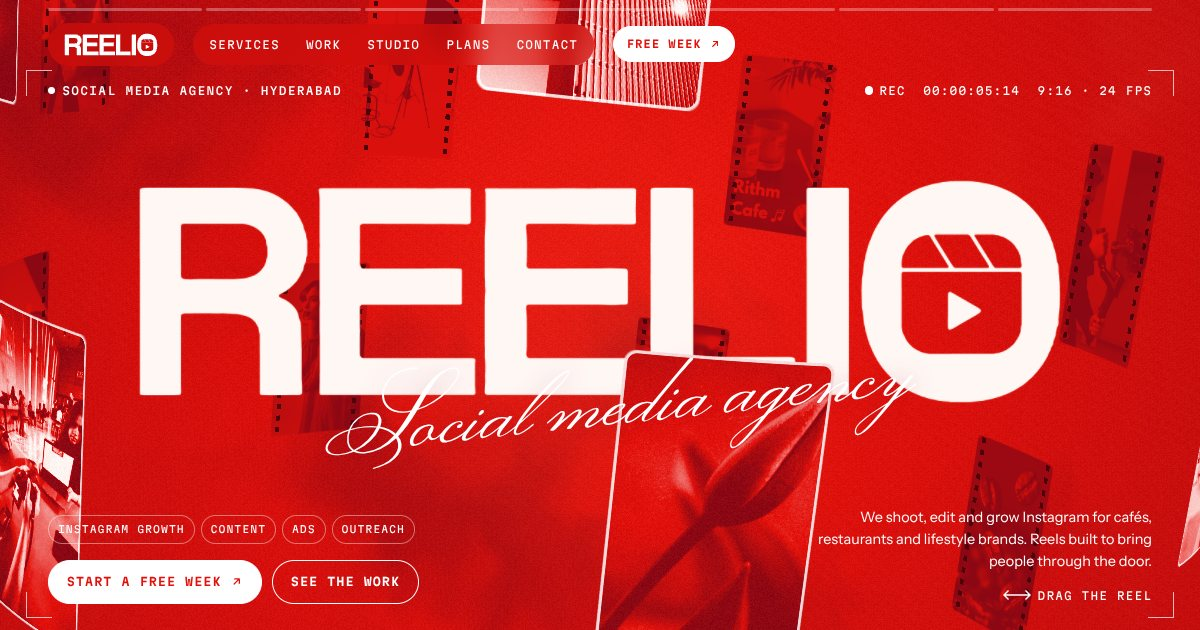
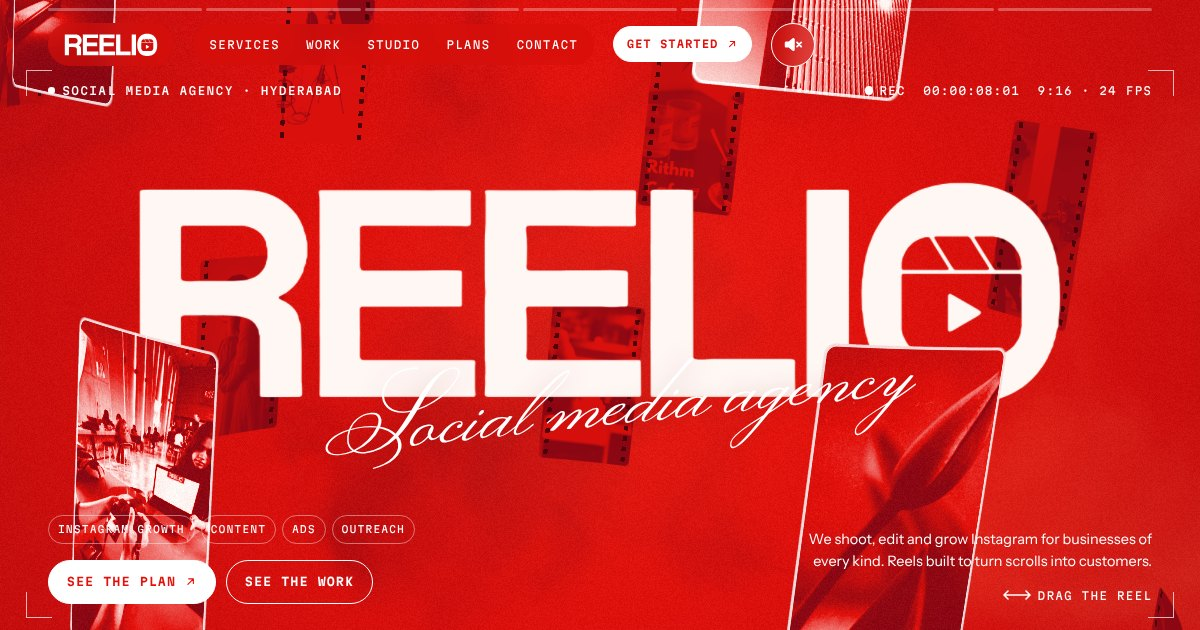
Position REELIO for every niche; show the five services
- Marquee and services list now show exactly: Content Creation, Video Editing &
  Graphic Design, Photography & Videography, Meta Ads & Paid Marketing,
  Outreach & Brand Growth (Models removed)
- Hero line, About statement and meta descriptions no longer name cafés,
  restaurants or lifestyle brands
- Niches section relabelled by content type (What we shoot)
- Contact form asks what the business does instead of niche chips
- Regenerated og.jpg link preview from the current hero

Claude-Session: https://claude.ai/code/session_01HG97bxukWMWAH2d1mGRTMN

diff --git a/index.html b/index.html
@@ -10,7 +10,7 @@
 <meta property="og:type" content="website">
 <meta property="og:site_name" content="REELIO">
 <meta property="og:title" content="REELIO | Cinematic social media agency">
-<meta property="og:description" content="REELIO is a creative and growth social media agency from Hyderabad. Cinematic reels, branding, Meta ads and outreach for cafés, restaurants and lifestyle brands.">
+<meta property="og:description" content="REELIO is a creative and growth social media agency from Hyderabad. Cinematic reels, branding, Meta ads and outreach for businesses of every kind.">
 <meta property="og:url" content="https://www.reelio.social/">
 <meta property="og:image" content="https://www.reelio.social/og.jpg">
 <meta property="og:image:width" content="1200">
@@ -18,7 +18,7 @@
 <meta name="twitter:card" content="summary_large_image">
 <style>:root{padding-top:env(safe-area-inset-top,0px);padding-bottom:env(safe-area-inset-bottom,0px)}</style>
 <meta name="claude:viewport-fit-sides" content="cover">
-<meta name="description" content="REELIO is a creative and growth social media agency from Hyderabad. Cinematic reels, branding, Meta ads and outreach for cafés, restaurants and lifestyle brands.">
+<meta name="description" content="REELIO is a creative and growth social media agency from Hyderabad. Cinematic reels, branding, Meta ads and outreach for businesses of every kind.">
 <meta name="theme-color" content="#E3110C">
 <link rel="preconnect" href="https://fonts.googleapis.com">
 <link rel="preconnect" href="https://fonts.gstatic.com" crossorigin>
@@ -706,7 +706,7 @@ fieldset.field{border:0;margin:0;padding:0;grid-column:1/-1}
   <nav class="wrap" aria-label="Menu">
     <ul>
       <li><a href="#services">Services</a></li>
-      <li><a href="#niches">Niches</a></li>
+      <li><a href="#niches">Reels</a></li>
       <li><a href="#work">Work</a></li>
       <li><a href="#kit">Studio</a></li>
       <li><a href="#plans">Plans</a></li>
@@ -761,7 +761,7 @@ fieldset.field{border:0;margin:0;padding:0;grid-column:1/-1}
           </div>
         </div>
         <div class="hero-side">
-          <p>We shoot, edit and grow Instagram for cafés, restaurants and lifestyle brands. Reels built to bring people through the door.</p>
+          <p>We shoot, edit and grow Instagram for businesses of every kind. Reels built to turn scrolls into customers.</p>
           <span class="mono drag-hint" aria-hidden="true"><svg><use href="#i-drag"/></svg> Drag the reel</span>
         </div>
       </div>
@@ -770,15 +770,15 @@ fieldset.field{border:0;margin:0;padding:0;grid-column:1/-1}
 
   <div class="marquee" aria-hidden="true" data-surface="paper">
     <div class="marquee-track">
-      <div class="marquee-group"><span>Cafés</span><svg class="burst"><use href="#burst"/></svg><span class="o">Restaurants</span><svg class="burst"><use href="#burst"/></svg><span>Fashion</span><svg class="burst"><use href="#burst"/></svg><span class="o">Startups</span><svg class="burst"><use href="#burst"/></svg></div>
-      <div class="marquee-group"><span>Cafés</span><svg class="burst"><use href="#burst"/></svg><span class="o">Restaurants</span><svg class="burst"><use href="#burst"/></svg><span>Fashion</span><svg class="burst"><use href="#burst"/></svg><span class="o">Startups</span><svg class="burst"><use href="#burst"/></svg></div>
+      <div class="marquee-group"><span>Content Creation</span><svg class="burst"><use href="#burst"/></svg><span class="o">Video Editing &amp; Graphic Design</span><svg class="burst"><use href="#burst"/></svg><span>Photography &amp; Videography</span><svg class="burst"><use href="#burst"/></svg><span class="o">Meta Ads &amp; Paid Marketing</span><svg class="burst"><use href="#burst"/></svg><span>Outreach &amp; Brand Growth</span><svg class="burst"><use href="#burst"/></svg></div>
+      <div class="marquee-group"><span>Content Creation</span><svg class="burst"><use href="#burst"/></svg><span class="o">Video Editing &amp; Graphic Design</span><svg class="burst"><use href="#burst"/></svg><span>Photography &amp; Videography</span><svg class="burst"><use href="#burst"/></svg><span class="o">Meta Ads &amp; Paid Marketing</span><svg class="burst"><use href="#burst"/></svg><span>Outreach &amp; Brand Growth</span><svg class="burst"><use href="#burst"/></svg></div>
     </div>
   </div>
 
   <section class="about s-paper" id="about" data-surface="paper">
     <div class="wrap grid12">
       <p class="label">About REELIO</p>
-      <h2 class="statement" id="statement">REELIO is an all-in-one creative &amp; growth agency helping <span class="hl">cafés, restaurants</span> and <span class="hl">lifestyle brands</span> grow on <span class="hl">Instagram.</span></h2>
+      <h2 class="statement" id="statement">REELIO is an all-in-one creative &amp; growth agency helping <span class="hl">businesses</span> in <span class="hl">every niche</span> grow on <span class="hl">Instagram.</span></h2>
       <div class="about-media logo-card">
         <img class="parallax" src="logo-card.jpg" alt="The REELIO logo in white on red" loading="lazy" width="960" height="1200">
         <span class="tag tl">9:16</span><span class="tag br">Take 01</span>
@@ -800,58 +800,54 @@ fieldset.field{border:0;margin:0;padding:0;grid-column:1/-1}
       <div class="sec-head">
         <p class="label">Services</p>
         <h2 class="display h1 reveal">Everything your Instagram needs</h2>
-        <p class="lede">Six services from one team. Pick the one you need, or hand us the whole account.</p>
+        <p class="lede">Five services from one team. Pick the one you need, or hand us the whole account.</p>
       </div>
       <ul class="svc-list">
         <li class="svc" data-img="0">
           <span class="svc-thumb" aria-hidden="true"><img src="r13.jpg" alt="" loading="lazy" width="576" height="1024"></span>
-          <h3>Content creation</h3>
+          <h3>Content Creation</h3>
           <p>Engaging, high-quality Instagram posts, reels and campaign content made to lift engagement, visibility and brand impact.</p>
           <ul class="tags"><li>Reels</li><li>Posts</li><li>Campaigns</li></ul>
         </li>
         <li class="svc" data-img="1">
           <span class="svc-thumb" aria-hidden="true"><img src="edit-desk.jpg" alt="" loading="lazy" width="576" height="1024"></span>
-          <h3>Video editing &amp; graphic design</h3>
+          <h3>Video Editing &amp; Graphic Design</h3>
           <p>Retention-first editing for short-form, trend-driven dynamic captions, carousels that convert and custom templates that suit your brand.</p>
           <ul class="tags"><li>Editing</li><li>Captions</li><li>Carousels</li><li>Templates</li></ul>
         </li>
         <li class="svc" data-img="2">
           <span class="svc-thumb" aria-hidden="true"><img src="r12.jpg" alt="" loading="lazy" width="576" height="1024"></span>
-          <h3>Photography &amp; videography</h3>
-          <p>Professional brand and product shoots, café and restaurant ambience, lifestyle photography and cinematic video production.</p>
+          <h3>Photography &amp; Videography</h3>
+          <p>Professional brand and product shoots, location and ambience shoots, lifestyle photography and cinematic video production.</p>
           <ul class="tags"><li>Brand shoots</li><li>Ambience</li><li>Cinematic</li></ul>
         </li>
         <li class="svc" data-img="3">
           <span class="svc-thumb" aria-hidden="true"><img src="r04.jpg" alt="" loading="lazy" width="576" height="1024"></span>
-          <h3>Digital marketing</h3>
+          <h3>Meta Ads &amp; Paid Marketing</h3>
           <p>Ad boosts and full Meta ads setup, with audience targeting, scaling, tracking and weekly optimization to grow your brand.</p>
           <ul class="tags"><li>Meta ads</li><li>Targeting</li><li>Tracking</li></ul>
         </li>
         <li class="svc" data-img="4">
           <span class="svc-thumb" aria-hidden="true"><img src="r09.jpg" alt="" loading="lazy" width="576" height="1024"></span>
-          <h3>Outreach &amp; growth</h3>
+          <h3>Outreach &amp; Brand Growth</h3>
           <p>Lead generation campaigns, influencer outreach, strategic brand collaborations and long-term community building.</p>
           <ul class="tags"><li>Leads</li><li>Influencers</li><li>Community</li></ul>
         </li>
-        <li class="svc" data-img="5">
-          <span class="svc-thumb" aria-hidden="true"><img src="r05.jpg" alt="" loading="lazy" width="576" height="1024"></span>
-          <h3>Models</h3>
-          <p>Access to professional models and content creators for shoots, campaigns and promotional content.</p>
-          <ul class="tags"><li>Models</li><li>Creators</li><li>Campaigns</li></ul>
+li>Creators</li><li>Campaigns</li></ul>
         </li>
       </ul>
     </div>
     <div class="svc-float" aria-hidden="true">
-      <img src="r13.jpg" alt=""><img src="edit-desk.jpg" alt=""><img src="r12.jpg" alt=""><img src="r04.jpg" alt=""><img src="r09.jpg" alt=""><img src="r05.jpg" alt="">
+      <img src="r13.jpg" alt=""><img src="edit-desk.jpg" alt=""><img src="r12.jpg" alt=""><img src="r04.jpg" alt=""><img src="r09.jpg" alt="">
     </div>
   </section>
 
   <section class="sec s-paper" id="niches" data-surface="paper">
     <div class="wrap">
       <div class="sec-head">
-        <p class="label">Niches we serve</p>
+        <p class="label">What we shoot</p>
         <h2 class="display h1 reveal">Made for the feed</h2>
-        <p class="lede">Every shoot is planned vertical-first, for the way people actually scroll.</p>
+        <p class="lede">Whatever your business is, every shoot is planned vertical-first, for the way people actually scroll.</p>
       </div>
       <div class="reels">
         <article class="reel">
@@ -862,9 +858,9 @@ fieldset.field{border:0;margin:0;padding:0;grid-column:1/-1}
               <div class="reel-top"><span>Reels</span><svg aria-hidden="true"><use href="#i-cam"/></svg></div>
               <div class="reel-rail" aria-hidden="true"><span><svg><use href="#i-heart"/></svg></span><span><svg><use href="#i-comment"/></svg></span><span><svg><use href="#i-send"/></svg></span></div>
               <div class="reel-meta">
-                <h3 class="reel-title">Cafés</h3>
+                <h3 class="reel-title">Product reels</h3>
                 <p class="reel-handle"><svg aria-hidden="true" viewBox="1008 0 299 330"><use href="#lp-o"/></svg>reelio.agency</p>
-                <p class="reel-cap">Latte art, slow pours, cozy corners.</p>
+                <p class="reel-cap">Slow motion and close-ups that make products irresistible.</p>
                 <p class="reel-audio"><svg aria-hidden="true"><use href="#i-note"/></svg>Original audio</p>
               </div>
             </div>
@@ -878,9 +874,9 @@ fieldset.field{border:0;margin:0;padding:0;grid-column:1/-1}
               <div class="reel-top"><span>Reels</span><svg aria-hidden="true"><use href="#i-cam"/></svg></div>
               <div class="reel-rail" aria-hidden="true"><span><svg><use href="#i-heart"/></svg></span><span><svg><use href="#i-comment"/></svg></span><span><svg><use href="#i-send"/></svg></span></div>
               <div class="reel-meta">
-                <h3 class="reel-title">Restaurants</h3>
+                <h3 class="reel-title">Behind the scenes</h3>
                 <p class="reel-handle"><svg aria-hidden="true" viewBox="1008 0 299 330"><use href="#lp-o"/></svg>reelio.agency</p>
-                <p class="reel-cap">Plating, service and the room at its best.</p>
+                <p class="reel-cap">The people, the craft and the space at their best.</p>
                 <p class="reel-audio"><svg aria-hidden="true"><use href="#i-note"/></svg>Original audio</p>
               </div>
             </div>
@@ -894,9 +890,9 @@ fieldset.field{border:0;margin:0;padding:0;grid-column:1/-1}
               <div class="reel-top"><span>Reels</span><svg aria-hidden="true"><use href="#i-cam"/></svg></div>
               <div class="reel-rail" aria-hidden="true"><span><svg><use href="#i-heart"/></svg></span><span><svg><use href="#i-comment"/></svg></span><span><svg><use href="#i-send"/></svg></span></div>
               <div class="reel-meta">
-                <h3 class="reel-title">Fashion</h3>
+                <h3 class="reel-title">Brand shoots</h3>
                 <p class="reel-handle"><svg aria-hidden="true" viewBox="1008 0 299 330"><use href="#lp-o"/></svg>reelio.agency</p>
-                <p class="reel-cap">Lookbooks, drops and models on set.</p>
+                <p class="reel-cap">Models, styling and looks on set.</p>
                 <p class="reel-audio"><svg aria-hidden="true"><use href="#i-note"/></svg>Original audio</p>
               </div>
             </div>
@@ -910,7 +906,7 @@ fieldset.field{border:0;margin:0;padding:0;grid-column:1/-1}
               <div class="reel-top"><span>Reels</span><svg aria-hidden="true"><use href="#i-cam"/></svg></div>
               <div class="reel-rail" aria-hidden="true"><span><svg><use href="#i-heart"/></svg></span><span><svg><use href="#i-comment"/></svg></span><span><svg><use href="#i-send"/></svg></span></div>
               <div class="reel-meta">
-                <h3 class="reel-title">Startups</h3>
+                <h3 class="reel-title">Founder stories</h3>
                 <p class="reel-handle"><svg aria-hidden="true" viewBox="1008 0 299 330"><use href="#lp-o"/></svg>reelio.agency</p>
                 <p class="reel-cap">Launches, founders and the story behind them.</p>
                 <p class="reel-audio"><svg aria-hidden="true"><use href="#i-note"/></svg>Original audio</p>
@@ -1104,17 +1100,8 @@ fieldset.field{border:0;margin:0;padding:0;grid-column:1/-1}
           <h3>Brief us in 30 seconds</h3>
           <div class="fields">
             <div class="field"><label for="f-name">Your name</label><input id="f-name" name="name" type="text" autocomplete="name" placeholder="Priya"></div>
-            <div class="field"><label for="f-biz">Business</label><input id="f-biz" name="biz" type="text" autocomplete="organization" placeholder="Brew &amp; Co."></div>
-            <fieldset class="field">
-              <legend>What do you run?</legend>
-              <div class="chips">
-                <input type="radio" name="type" id="t-cafe" value="a café"><label for="t-cafe">Café</label>
-                <input type="radio" name="type" id="t-rest" value="a restaurant"><label for="t-rest">Restaurant</label>
-                <input type="radio" name="type" id="t-fash" value="a fashion brand"><label for="t-fash">Fashion brand</label>
-                <input type="radio" name="type" id="t-start" value="a startup"><label for="t-start">Startup</label>
-                <input type="radio" name="type" id="t-other" value=""><label for="t-other">Something else</label>
-              </div>
-            </fieldset>
+            <div class="field"><label for="f-biz">Business</label><input id="f-biz" name="biz" type="text" autocomplete="organization" placeholder="Your brand name"></div>
+            <div class="field full"><label for="f-type">What does your business do?</label><input id="f-type" name="type" type="text" placeholder="Clinic, gym, boutique, real estate, anything"></div>
             <fieldset class="field">
               <legend>Which plan?</legend>
               <div class="chips">
@@ -1274,10 +1261,10 @@ fieldset.field{border:0;margin:0;padding:0;grid-column:1/-1}
   function compose() {
     const fd = new FormData(form);
     const name = String(fd.get('name') || '').trim(), biz = String(fd.get('biz') || '').trim();
-    const type = String(fd.get('type') || ''), plan = String(fd.get('plan') || ''), msg = String(fd.get('msg') || '').trim();
+    const type = String(fd.get('type') || '').trim(), plan = String(fd.get('plan') || ''), msg = String(fd.get('msg') || '').trim();
     let t = 'Hi REELIO!';
     if (name) t += ` I'm ${name}${biz ? ` from ${biz}` : ''}.`; else if (biz) t += ` I'm writing from ${biz}.`;
-    if (type) t += ` We're ${type}.`;
+    if (type) t += ` Our business: ${type}.`;
     t += plan ? ` I'm interested in ${plan}.` : ` I'd like to know which plan fits us.`;
     if (msg) t += `\n\n${msg}`;
     bubble.textContent = t;
